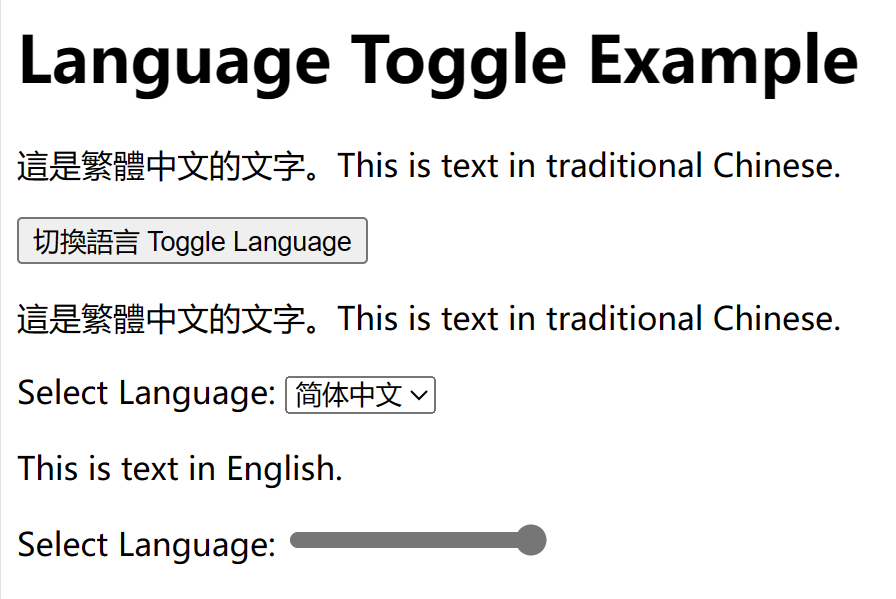
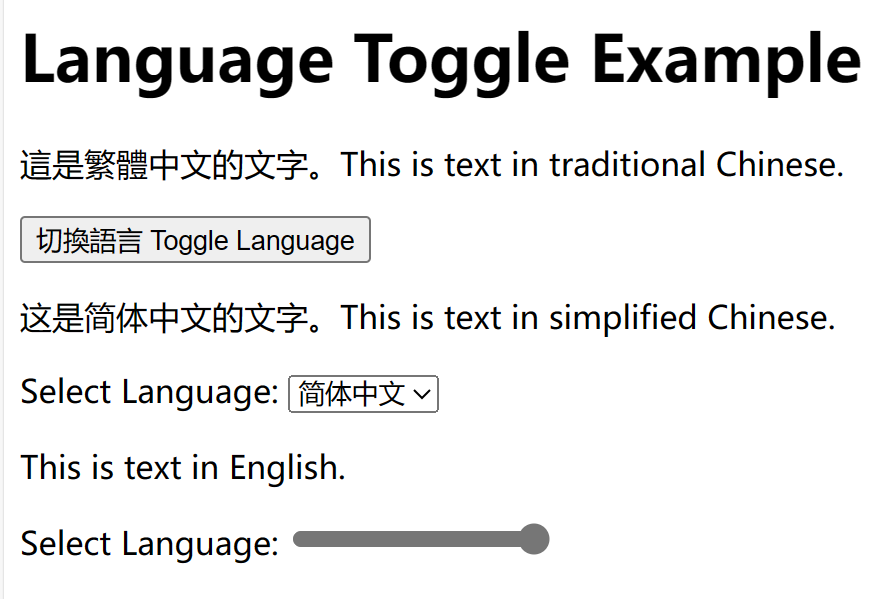
code fix

diff --git a/chinese.html b/chinese.html
@@ -32,7 +32,7 @@
   </p>
 
   <label for="languageSlider">Select Language:</label>
-  <input type="range" min="1" max="3" value="1" id="languageSlider" oninput="changeLanguage()">
+  <input type="range" min="1" max="3" value="1" id="languageSlider" oninput="changeLanguage2()">
 
 
   <script>
@@ -68,7 +68,7 @@
           break;
       }
     }
-		function changeLanguage() {
+		function changeLanguage2() {
       var sliderValue = document.getElementById("languageSlider").value;
       var textElement = document.getElementById("text2");
 
